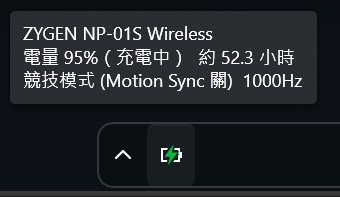
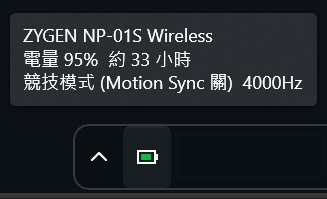
Refresh screenshots and place each under its feature

Changed region(s): [[0.0306, 0.0305, 0.9786, 0.5482], [0.2141, 0.6091, 1.0, 0.9746], [0.0612, 0.1218, 0.6728, 0.2132]]

diff --git a/README.zh-TW.md b/README.zh-TW.md
@@ -11,17 +11,15 @@
 > **非官方工具**。本專案與 VAXEE 無關，也未經其認可。
 > 文中提到的產品名稱僅用於說明相容的硬體。
 
-<p align="center">
-  <img src="docs/screenshots/icon-chinese.jpg" alt="系統匣提示文字：型號、電量 95%（充電中）約 52.3 小時、競技模式 1000Hz" height="180">
-  <img src="docs/screenshots/menu-chinese.jpg" alt="右鍵選單：競技模式、標準模式、Motion Sync、回報率、開機自動啟動、重新整理、結束" height="180">
-</p>
-
 ## 功能
 
 - **系統匣電池圖示**：填滿比例和顏色隨電量變化（綠色 ≥ 50%、橘色 20–49%、紅色 < 20%）。
   充電時改顯示閃電；灰色空電池表示找不到滑鼠。外框顏色會跟著工作列的深色或淺色主題切換。
 - **提示文字**：顯示型號、電量、剩餘時間、目前模式和回報率。電量標籤和剩餘時間直接照搬
   VAXEE Control Center 的資料，所以兩邊顯示一致，例如 `50%-70%`、`27.5-37 小時`。
+
+  <img src="docs/screenshots/icon-chinese.jpg" alt="系統匣提示文字：型號、電量 95% 約 33 小時、競技模式 4000Hz">
+
 - **右鍵選單**
   - 競技模式（同時設成 4000Hz；用充電線連接時設成 1000Hz）
   - 標準模式（同時設成 1000Hz）
@@ -29,6 +27,9 @@
   - 回報率子選單：目前模式不支援的回報率會反灰
   - 開機自動啟動
   - 重新整理／結束
+
+  <img src="docs/screenshots/menu-chinese.jpg" alt="右鍵選單：競技模式 (4000Hz)、標準模式 (1000Hz)、Motion Sync、回報率、開機自動啟動、重新整理、結束">
+
 - **低電量通知**：電量降到 10% 時通知一次，門檻和官方驅動顯示「請立即充電」的條件相同。
 - 透過接收器或充電線連接都可以使用。兩者同時接上時會使用充電線連接，因為這時接收器和滑鼠的連線已經中斷。
 - 介面提供英文、繁體中文和簡體中文，自動跟隨 Windows 的顯示語言。

diff --git a/README.md b/README.md
@@ -12,11 +12,6 @@ open a browser just to check the battery.
 > **Unofficial.** This project is not affiliated with or endorsed by VAXEE.
 > Product names are used only to identify compatible hardware.
 
-<p align="center">
-  <img src="docs/screenshots/icon-english.jpg" alt="Tray tooltip: model, battery 95% (charging) with about 52 hours left, Competitive mode at 1000Hz" height="180">
-  <img src="docs/screenshots/menu-english.jpg" alt="Tray menu: Competitive and Standard mode, Motion Sync, Report rate, Start with Windows, Refresh, Exit" height="180">
-</p>
-
 ## Features
 
 - **Battery icon in the tray.** Fill level and color follow the battery
@@ -26,6 +21,9 @@ open a browser just to check the battery.
 - **Tooltip** with the model, battery, remaining runtime, current mode and report
   rate. Battery labels and runtimes are taken verbatim from VAXEE Control Center,
   so both show the same values (for example `50%-70%`, `27.5-37 h`).
+
+  <img src="docs/screenshots/icon-english.jpg" alt="Tray tooltip: model, battery 95% with about 33 hours left, Competitive mode at 4000Hz">
+
 - **Right-click menu**
   - Competitive mode (also sets 4000 Hz over the receiver, 1000 Hz by cable)
   - Standard mode (also sets 1000 Hz)
@@ -33,6 +31,9 @@ open a browser just to check the battery.
   - Report rate submenu; rates the current mode doesn't allow are greyed out
   - Start with Windows
   - Refresh / Exit
+
+  <img src="docs/screenshots/menu-english.jpg" alt="Tray menu: Competitive (4000Hz) and Standard (1000Hz) mode, Motion Sync, Report rate, Start with Windows, Refresh, Exit">
+
 - **Low-battery notification**, once per discharge, at 10% (the same "charge now"
   threshold as the official driver).
 - Works over the receiver or the charging cable. When both are plugged in, the
